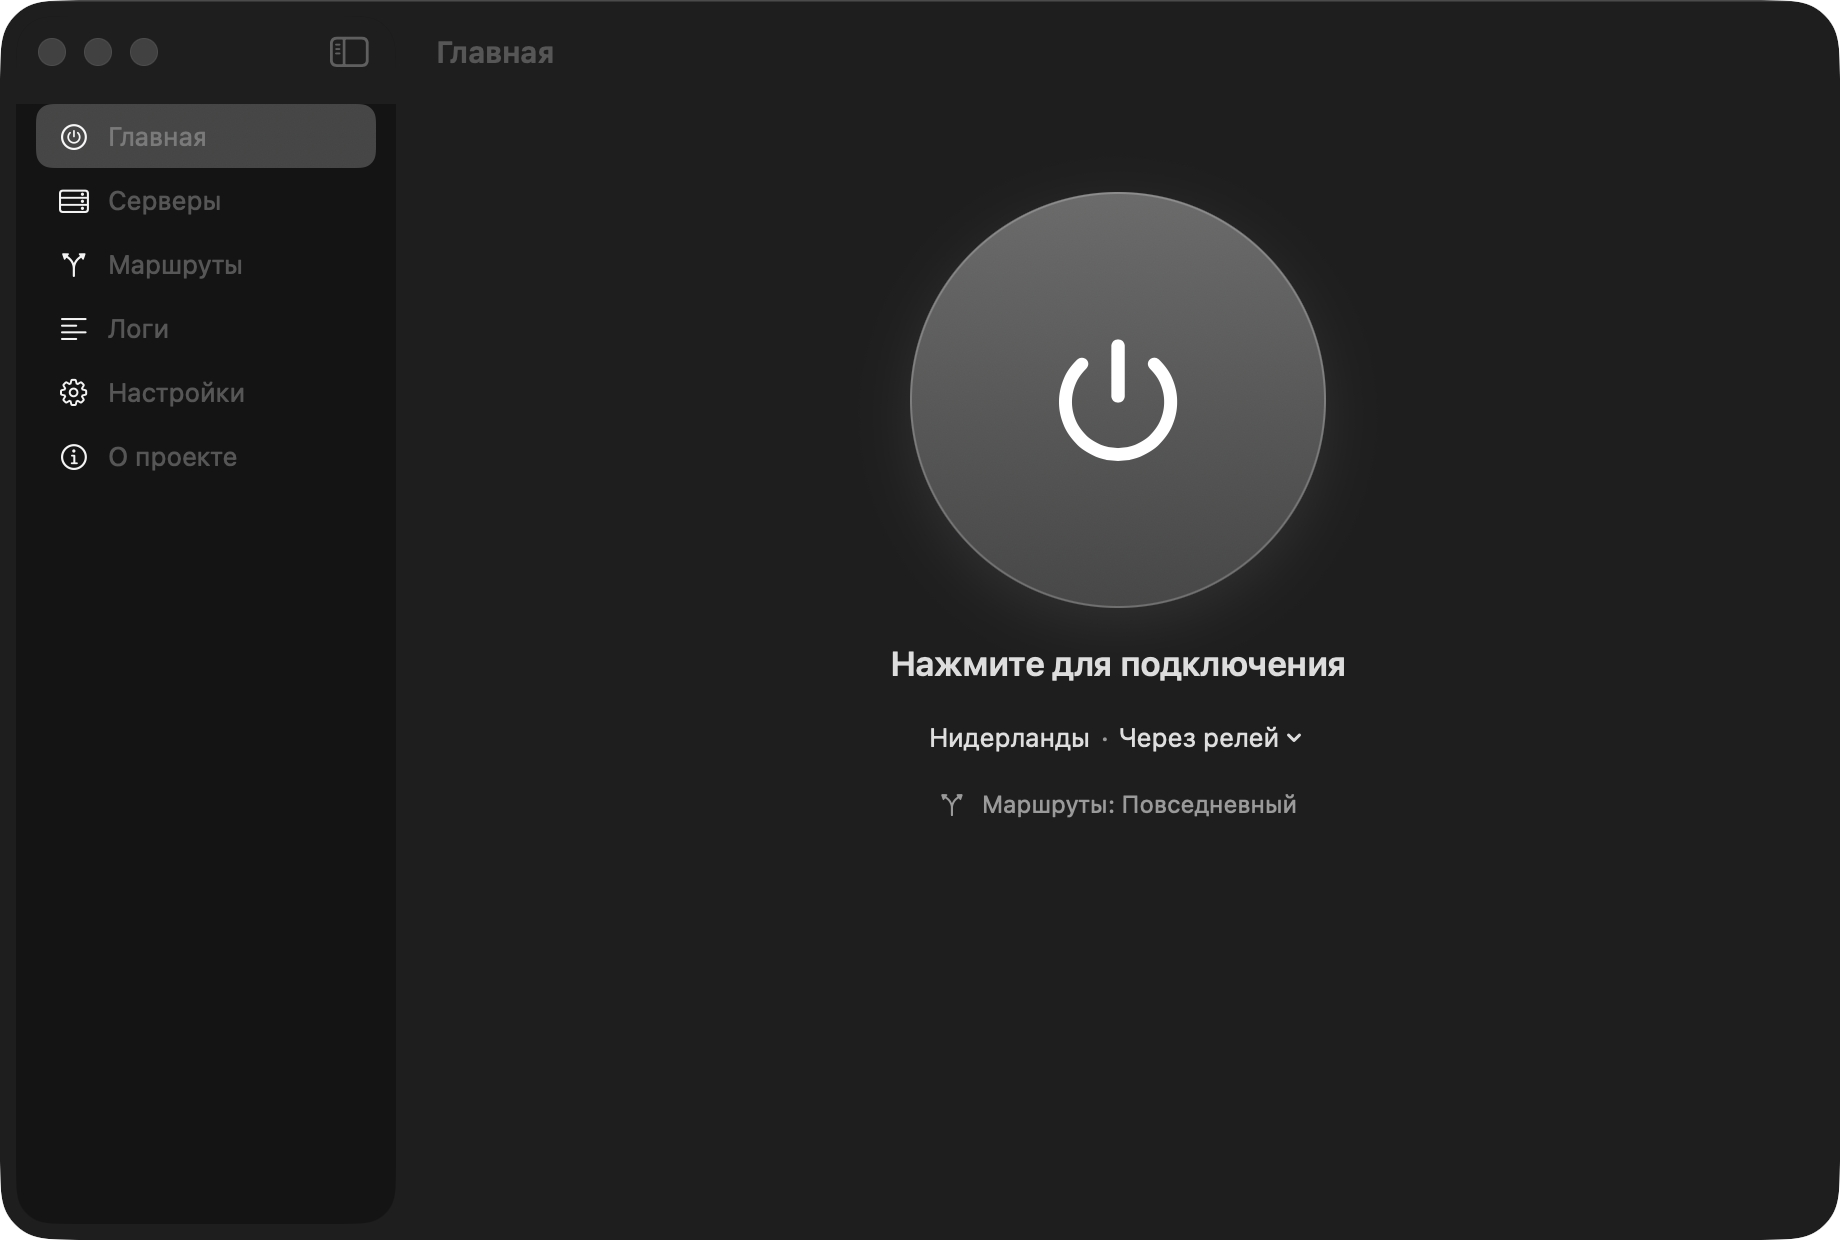
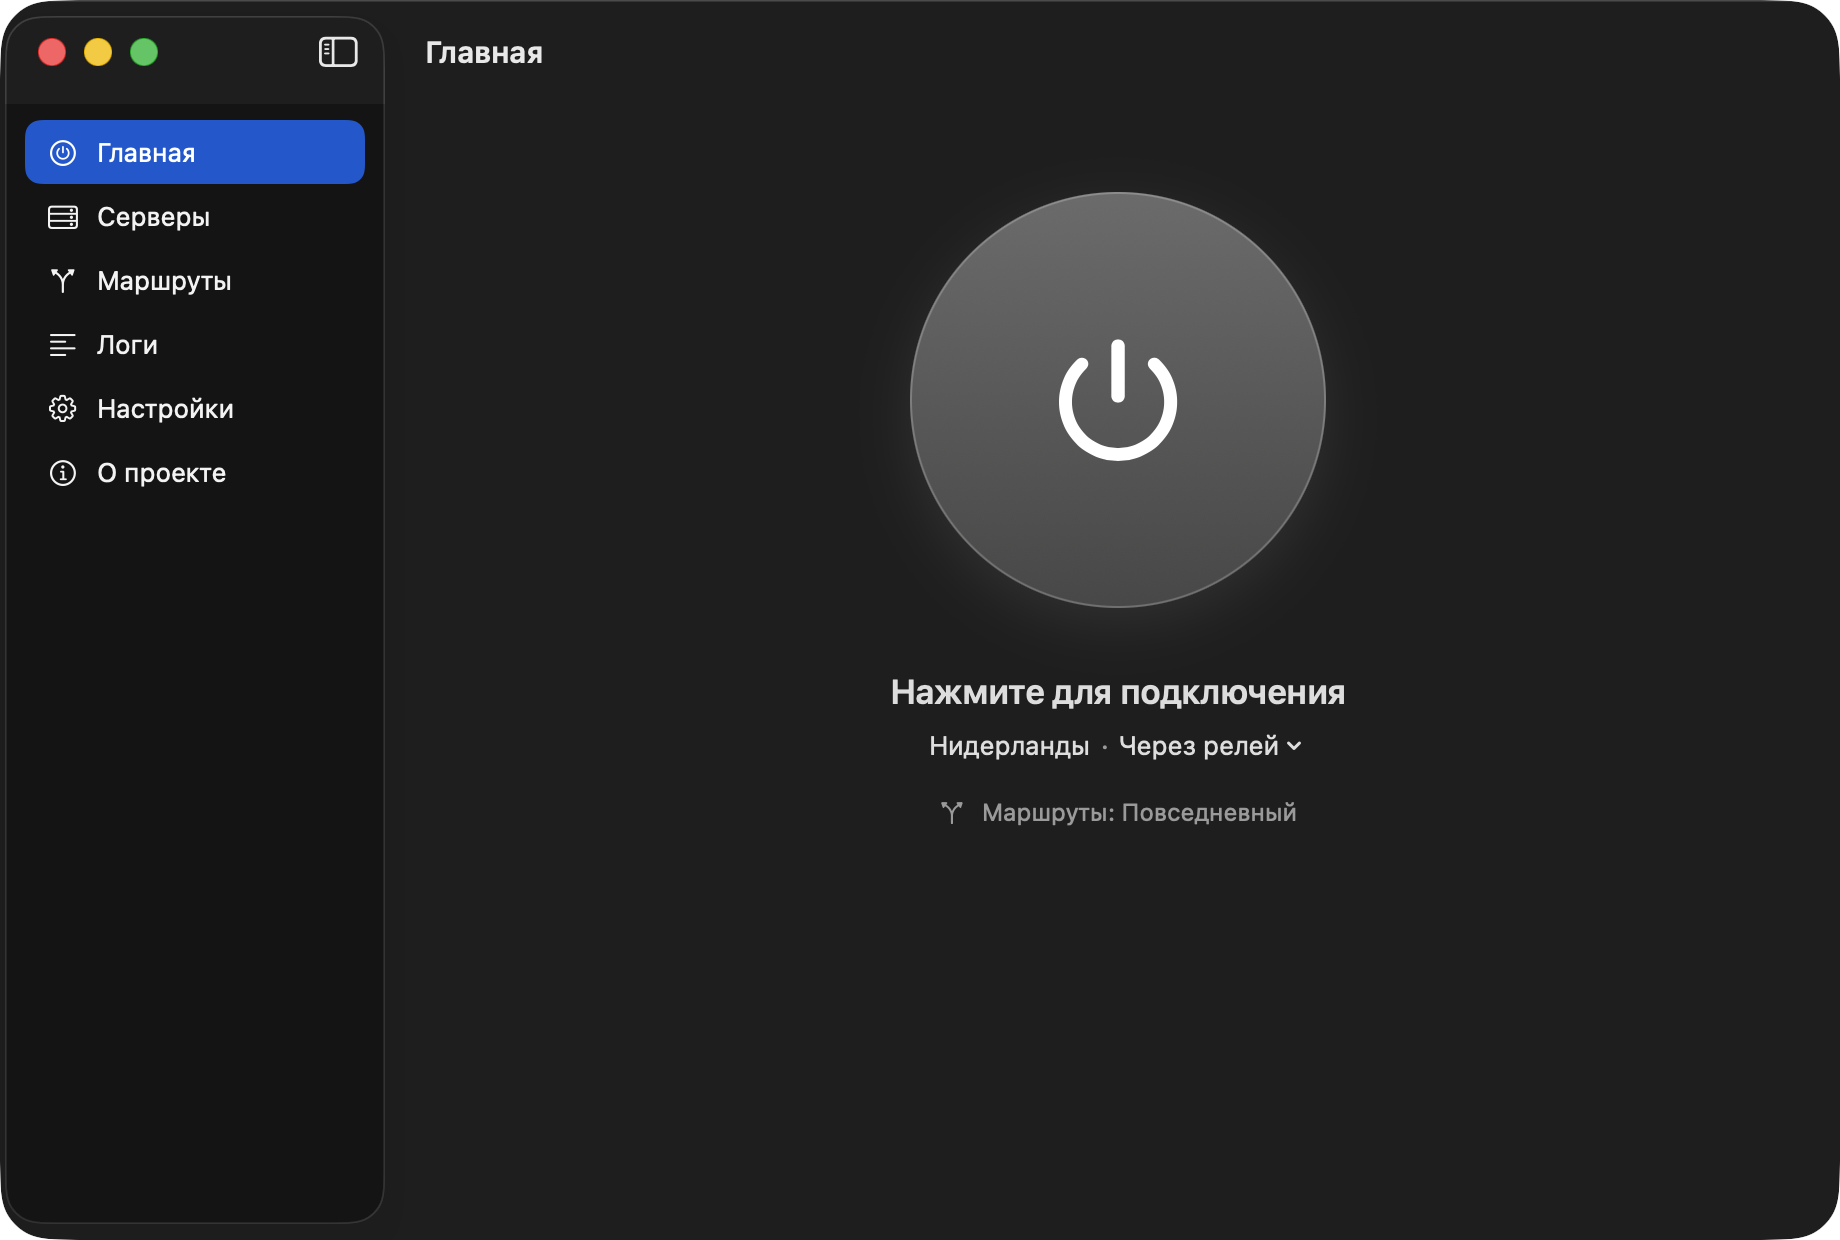
macOS: spacing on Home and a gap above the sidebar selection

diff --git a/App/Sources/FreeTurn/Views/HomeView.swift b/App/Sources/FreeTurn/Views/HomeView.swift
@@ -44,15 +44,19 @@ struct HomeView: View {
                     ConnectButton(kind: kind) { model.toggleConnection() }
                         .disabled(state == .stopping)
                         .padding(.top, 20)
-                    Text(title).font(.title2.weight(.semibold))
-                    serverLine
+                    // Заголовок и строка сервера - одной группой, чуть ниже свечения кнопки.
+                    VStack(spacing: 8) {
+                        Text(title).font(.title2.weight(.semibold))
+                        serverLine
+                    }
+                    .padding(.top, 14)
                     if model.captchaNeedsAttention {
                         Button(L("Пройти проверку"), systemImage: "checkmark.shield") { model.reopenCaptcha() }
                             .buttonStyle(.borderedProminent)
                             .tint(.orange)
                     }
                     failureView
-                    if case .connected = state { StatsGrid() }
+                    if case .connected = state { StatsGrid().padding(.top, 6) }
                     if let profile = model.activeProfile {
                         Label("\(L("Маршруты:")) \(model.displayName(profile))", systemImage: "arrow.triangle.branch")
                             .font(.callout)

diff --git a/App/Sources/FreeTurn/Views/RootView.swift b/App/Sources/FreeTurn/Views/RootView.swift
@@ -11,6 +11,8 @@ struct RootView: View {
                 Label(section.title, systemImage: section.icon).tag(section)
             }
             .navigationSplitViewColumnWidth(min: 170, ideal: 190, max: 240)
+            // Зазор между заголовком окна и подсветкой выбранной вкладки.
+            .contentMargins(.top, 8, for: .scrollContent)
         } detail: {
             VStack(spacing: 0) {
                 if let error = model.loadError {
